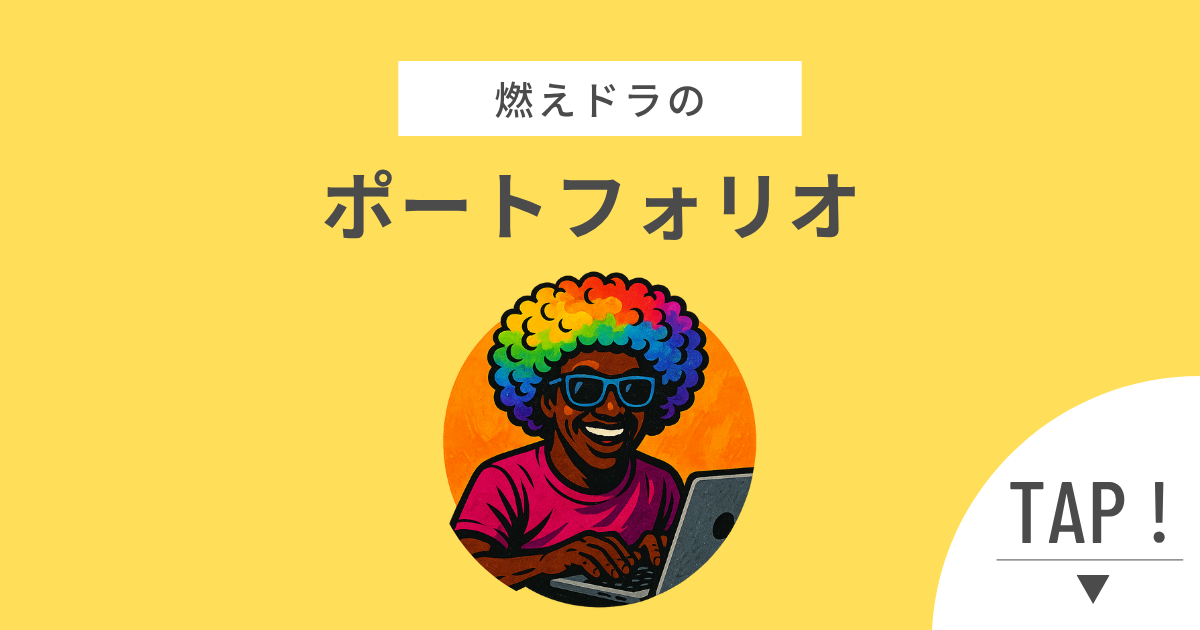
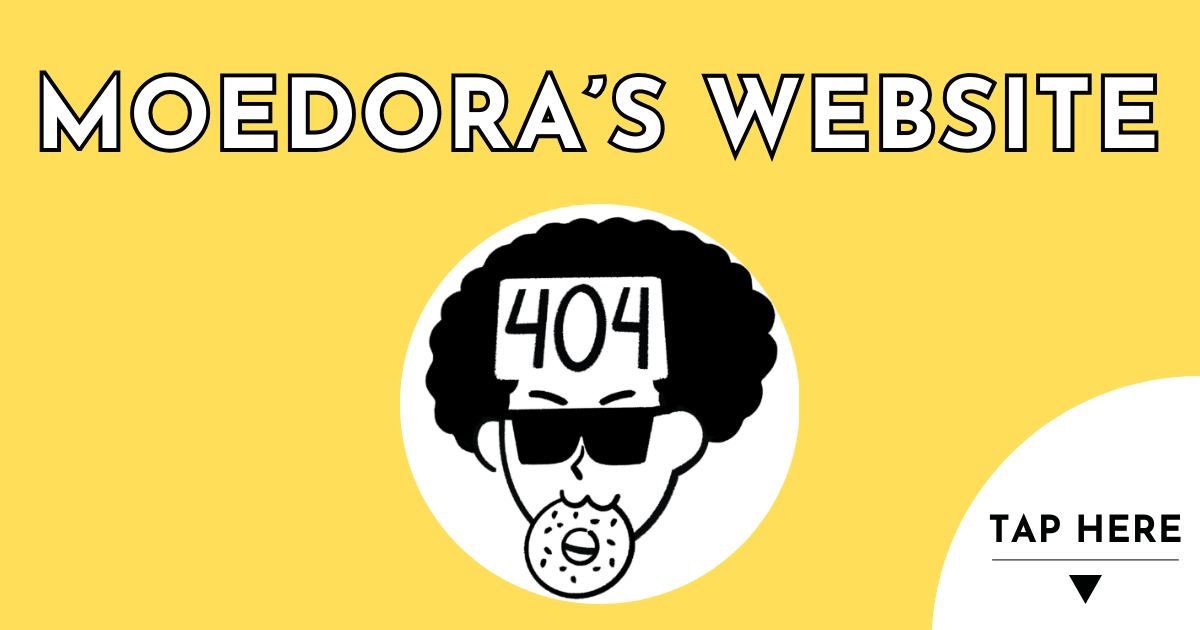
マガジン機能の実装と改善: 全画面表示、ページめくり、レスポンシブ対応

Changed region(s): [[0.2467, 0.2714, 0.7092, 0.9651], [0.0308, 0.0905, 0.9867, 0.2413], [0.8017, 0.754, 0.9867, 0.9651]]

diff --git a/app/magazine/page.tsx b/app/magazine/page.tsx
@@ -18,7 +18,7 @@ import {
   type CarouselApi,
 } from "@/components/ui/carousel";
 import { Dialog, DialogContent } from "@/components/ui/dialog";
-import { X, ChevronLeft, ChevronRight } from "lucide-react";
+import { X } from "lucide-react";
 
 // 号ごとのカロセルコンポーネント
 function IssueCarousel({
@@ -119,6 +119,10 @@ export default function Magazine() {
     pageNum: number;
   } | null>(null);
   const [showControls, setShowControls] = useState(true);
+  const [touchStart, setTouchStart] = useState<number | null>(null);
+  const [touchEnd, setTouchEnd] = useState<number | null>(null);
+  const [mouseStart, setMouseStart] = useState<number | null>(null);
+  const [isDragging, setIsDragging] = useState(false);
 
   // 表示名を生成
   const getDisplayName = (issue: MagazineIssue) => {
@@ -183,6 +187,68 @@ export default function Magazine() {
         pageNum: fullscreenImage.pageNum + 1,
       });
     }
+  };
+
+  // スワイプの最小距離
+  const minSwipeDistance = 50;
+
+  // タッチイベントハンドラー
+  const onTouchStart = (e: React.TouchEvent) => {
+    setTouchEnd(null);
+    setTouchStart(e.targetTouches[0].clientX);
+  };
+
+  const onTouchMove = (e: React.TouchEvent) => {
+    setTouchEnd(e.targetTouches[0].clientX);
+  };
+
+  const onTouchEnd = () => {
+    if (!touchStart || !touchEnd || !fullscreenImage || !fullscreenIssue)
+      return;
+    const distance = touchStart - touchEnd;
+    const isLeftSwipe = distance > minSwipeDistance;
+    const isRightSwipe = distance < -minSwipeDistance;
+
+    if (isLeftSwipe && fullscreenImage.pageNum < fullscreenIssue.pageCount) {
+      handleNextPage();
+    }
+    if (isRightSwipe && fullscreenImage.pageNum > 1) {
+      handlePreviousPage();
+    }
+  };
+
+  // マウスドラッグイベントハンドラー
+  const onMouseDown = (e: React.MouseEvent) => {
+    setIsDragging(true);
+    setMouseStart(e.clientX);
+  };
+
+  const onMouseMove = (e: React.MouseEvent) => {
+    if (!isDragging) {
+      setShowControls(true);
+      return;
+    }
+  };
+
+  const onMouseUp = (e: React.MouseEvent) => {
+    if (!isDragging || !mouseStart || !fullscreenImage || !fullscreenIssue) {
+      setIsDragging(false);
+      return;
+    }
+
+    const distance = mouseStart - e.clientX;
+    const isLeftSwipe = distance > minSwipeDistance;
+    const isRightSwipe = distance < -minSwipeDistance;
+
+    if (isLeftSwipe && fullscreenImage.pageNum < fullscreenIssue.pageCount) {
+      handleNextPage();
+    }
+    if (isRightSwipe && fullscreenImage.pageNum > 1) {
+      handlePreviousPage();
+    }
+
+    setIsDragging(false);
+    setMouseStart(null);
   };
 
   // コントロールの表示/非表示を管理
@@ -295,9 +361,15 @@ export default function Magazine() {
       >
         <DialogContent className="max-w-[95vw] max-h-[95vh] w-auto h-auto p-0 bg-black/95 border-none translate-x-[-50%] translate-y-[-50%] left-[50%] top-[50%] [&>button]:hidden">
           <div
-            className="relative w-full h-full flex items-center justify-center min-h-[50vh] cursor-pointer"
-            onClick={() => setShowControls(!showControls)}
-            onMouseMove={() => setShowControls(true)}
+            className="relative w-full h-full flex items-center justify-center min-h-[50vh] cursor-pointer select-none"
+            onClick={() => !isDragging && setShowControls(!showControls)}
+            onTouchStart={onTouchStart}
+            onTouchMove={onTouchMove}
+            onTouchEnd={onTouchEnd}
+            onMouseDown={onMouseDown}
+            onMouseMove={onMouseMove}
+            onMouseUp={onMouseUp}
+            onMouseLeave={() => setIsDragging(false)}
           >
             {fullscreenImage && fullscreenIssue && (
               <>
@@ -308,41 +380,8 @@ export default function Magazine() {
                   height={1600}
                   className="max-w-full max-h-[95vh] w-auto h-auto object-contain pointer-events-none"
                   sizes="95vw"
+                  draggable={false}
                 />
-                {/* 前のページボタン */}
-                {fullscreenImage.pageNum > 1 && (
-                  <button
-                    onClick={(e) => {
-                      e.stopPropagation();
-                      handlePreviousPage();
-                    }}
-                    className={`absolute left-4 top-1/2 -translate-y-1/2 bg-black/60 hover:bg-black/80 text-white p-3 rounded-full transition-all z-10 ${
-                      showControls
-                        ? "opacity-100"
-                        : "opacity-0 pointer-events-none"
-                    }`}
-                    aria-label="Previous page"
-                  >
-                    <ChevronLeft className="h-6 w-6" />
-                  </button>
-                )}
-                {/* 次のページボタン */}
-                {fullscreenImage.pageNum < fullscreenIssue.pageCount && (
-                  <button
-                    onClick={(e) => {
-                      e.stopPropagation();
-                      handleNextPage();
-                    }}
-                    className={`absolute right-4 top-1/2 -translate-y-1/2 bg-black/60 hover:bg-black/80 text-white p-3 rounded-full transition-all z-10 ${
-                      showControls
-                        ? "opacity-100"
-                        : "opacity-0 pointer-events-none"
-                    }`}
-                    aria-label="Next page"
-                  >
-                    <ChevronRight className="h-6 w-6" />
-                  </button>
-                )}
                 {/* ページ数表示 */}
                 <div
                   className={`absolute top-4 left-1/2 -translate-x-1/2 bg-black/60 text-white px-4 py-2 rounded-md text-sm font-medium backdrop-blur-sm z-10 transition-all ${

diff --git a/components/StructuredData.tsx b/components/StructuredData.tsx
@@ -12,7 +12,7 @@ export function StructuredData({ type, data }: StructuredDataProps) {
         return {
           "@context": "https://schema.org",
           "@type": "Person",
-          name: "燃えドラ",
+          name: "Moedora",
           description: "個人開発者",
           url: "https://app-saikou.netlify.app",
           sameAs: ["https://x.com/app_saikou", "https://note.com/app_saikou"],
@@ -23,12 +23,12 @@ export function StructuredData({ type, data }: StructuredDataProps) {
         return {
           "@context": "https://schema.org",
           "@type": "WebSite",
-          name: "燃えドラ Portfolio",
-          description: "個人開発者燃えドラのポートフォリオサイト",
+          name: "Moedora Portfolio",
+          description: "個人開発者Moedoraのポートフォリオサイト",
           url: "https://app-saikou.netlify.app",
           author: {
             "@type": "Person",
-            name: "燃えドラ",
+            name: "Moedora",
           },
           ...data,
         };
@@ -48,11 +48,11 @@ export function StructuredData({ type, data }: StructuredDataProps) {
           "@type": "BlogPosting",
           author: {
             "@type": "Person",
-            name: "燃えドラ",
+            name: "Moedora",
           },
           publisher: {
             "@type": "Organization",
-            name: "燃えドラ",
+            name: "Moedora",
             logo: {
               "@type": "ImageObject",
               url: "https://app-saikou.netlify.app/logo.png",

diff --git a/app/page.tsx b/app/page.tsx
@@ -22,7 +22,7 @@ export default function Home() {
       <StructuredData
         type="Person"
         data={{
-          name: "燃えドラ",
+          name: "Moedora",
           description: "個人開発者",
           url: "https://app-saikou.netlify.app",
           sameAs: ["https://x.com/app_saikou", "https://note.com/app_saikou"],
@@ -31,8 +31,8 @@ export default function Home() {
       <StructuredData
         type="WebSite"
         data={{
-          name: "燃えドラ Portfolio",
-          description: "個人開発者燃えドラのポートフォリオサイト",
+          name: "Moedora Portfolio",
+          description: "個人開発者Moedoraのポートフォリオサイト",
           url: "https://app-saikou.netlify.app",
           potentialAction: {
             "@type": "SearchAction",
@@ -49,7 +49,7 @@ export default function Home() {
             <div className="w-48 h-48 rounded-full mb-8 mx-auto overflow-hidden shadow-lg">
               <Image
                 src="/profile-image.png"
-                alt="燃えドラのプロフィール画像"
+                alt="Moedoraのプロフィール画像"
                 width={192}
                 height={192}
                 className="w-full h-full object-cover"

diff --git a/lib/i18n.ts b/lib/i18n.ts
@@ -6,12 +6,12 @@ export const translations = {
       home: "ホーム",
       apps: "アプリ",
       blog: "ブログ",
-      magazine: "雑誌",
+      magazine: "マガジン",
       roadmap: "ロードマップ",
       sponsor: "スポンサー",
     },
     home: {
-      title: "燃えドラ",
+      title: "Moedora",
       subtitle: "個人開発者",
       quote: {
         line1: "個人開発者として、主にiOSアプリを作っています。",
@@ -404,6 +404,7 @@ export const translations = {
       home: "ホーム",
       apps: "アプリ",
       blog: "ブログ",
+      magazine: "マガジン",
       roadmap: "ロードマップ",
       sponsor: "スポンサー",
       copyright: "© 2025 app_saikou All rights reserved.",
@@ -825,6 +826,7 @@ export const translations = {
       home: "Home",
       apps: "Apps",
       blog: "Blog",
+      magazine: "Magazine",
       roadmap: "Roadmap",
       sponsor: "Sponsor",
       copyright: "© 2025 app_saikou All rights reserved.",

diff --git a/components/Footer.tsx b/components/Footer.tsx
@@ -54,6 +54,14 @@ export function Footer() {
               </li>
               <li>
                 <Link
+                  href="/magazine"
+                  className="text-gray-600 hover:text-yellow-600 transition-colors text-sm"
+                >
+                  {t.footer.magazine}
+                </Link>
+              </li>
+              <li>
+                <Link
                   href="/roadmap"
                   className="text-gray-600 hover:text-yellow-600 transition-colors text-sm"
                 >

diff --git a/app/blog/[slug]/page.tsx b/app/blog/[slug]/page.tsx
@@ -344,7 +344,7 @@ export default function BlogPost({ params }: { params: { slug: string } }) {
             👨💻
           </div>
           <div>
-            <h4 className="font-semibold text-gray-900">燃えドラ</h4>
+            <h4 className="font-semibold text-gray-900">Moedora</h4>
             <p className="text-gray-600 text-sm">
               個人開発者・アプリクリエイター
             </p>
